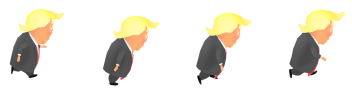
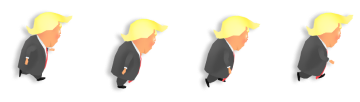
Updated background with Trump + Shadow

diff --git a/src/PlayScene.js b/src/PlayScene.js
@@ -7,8 +7,7 @@ class PlayScene extends Phaser.Scene {
 
   create() {
     const { height, width } = this.game.config;
-    // this.gameSpeed = 10;
-    this.gameSpeed = 7;
+    this.gameSpeed = 10;
     this.isGameRunning = false;
     this.respawnTime = 0;
     this.score = 0;
@@ -24,8 +23,8 @@ class PlayScene extends Phaser.Scene {
     this.ground = this.add
       .tileSprite(0, height, 88, 26, "ground")
       .setOrigin(0, 1);
-    this.dino = this.physics.add
-      .sprite(0, height, "trump_iddle")
+    this.trump = this.physics.add
+      .sprite(0, height, "trump_idle")
       .setCollideWorldBounds(true)
       .setGravityY(5000)
       .setBodySize(44, 90)
@@ -80,7 +79,7 @@ class PlayScene extends Phaser.Scene {
 
   initColliders() {
     this.physics.add.collider(
-      this.dino,
+      this.trump,
       this.obsticles,
       () => {
         this.highScoreText.x = this.scoreText.x - this.scoreText.width - 20;
@@ -99,7 +98,7 @@ class PlayScene extends Phaser.Scene {
         this.physics.pause();
         this.isGameRunning = false;
         this.anims.pauseAll();
-        this.dino.setTexture("dino-hurt");
+        this.trump.setTexture("dino-hurt");
         this.respawnTime = 0;
         this.gameSpeed = 10;
         this.gameOverScreen.setAlpha(1);
@@ -115,7 +114,7 @@ class PlayScene extends Phaser.Scene {
     const { width, height } = this.game.config;
     this.physics.add.overlap(
       this.startTrigger,
-      this.dino,
+      this.trump,
       () => {
         if (this.startTrigger.y === 10) {
           this.startTrigger.body.reset(0, height);
@@ -129,8 +128,8 @@ class PlayScene extends Phaser.Scene {
           loop: true,
           callbackScope: this,
           callback: () => {
-            this.dino.setVelocityX(80);
-            this.dino.play("dino-run", 1);
+            this.trump.setVelocityX(80);
+            this.trump.play("dino-run", 1);
 
             if (this.ground.width < width) {
               this.ground.width += 17 * 2;
@@ -139,7 +138,7 @@ class PlayScene extends Phaser.Scene {
             if (this.ground.width >= 1000) {
               this.ground.width = width;
               this.isGameRunning = true;
-              this.dino.setVelocityX(0);
+              this.trump.setVelocityX(0);
               this.scoreText.setAlpha(1);
               this.environment.setAlpha(1);
               startEvent.remove();
@@ -192,7 +191,7 @@ class PlayScene extends Phaser.Scene {
         }
 
         this.score++;
-        this.gameSpeed += 0.01;
+        this.gameSpeed += 0.02;
 
         if (this.score % 100 === 0) {
           this.reachSound.play();
@@ -218,9 +217,9 @@ class PlayScene extends Phaser.Scene {
 
   handleInputs() {
     this.restart.on("pointerdown", () => {
-      this.dino.setVelocityY(0);
-      this.dino.body.height = 92;
-      this.dino.body.offset.y = 0;
+      this.trump.setVelocityY(0);
+      this.trump.body.height = 92;
+      this.trump.body.offset.y = 0;
       this.physics.resume();
       this.obsticles.clear(true, true);
       this.isGameRunning = true;
@@ -228,60 +227,60 @@ class PlayScene extends Phaser.Scene {
       this.anims.resumeAll();
     });
     // Playing with AWSD
-    this.input.keyboard.on("keydown-A", () => {
-      this.dino.body.height = 92;
-      this.dino.body.offset.y = 0;
-      this.dino.setVelocityY(-1600);
-      this.dino.setTexture("dino", 0);
-    });
-    this.input.keyboard.on("keydown-W", () => {
-      this.dino.body.height = 0;
-      this.dino.body.offset.x = 30;
-    });
-    this.input.keyboard.on("keydown-S", () => {
-      this.dino.body.height = 0;
-      this.dino.body.offset.x = 30;
-    });
-    this.input.keyboard.on("keydown-D", () => {
-      this.dino.body.height = 0;
-      this.dino.body.offset.x = 30;
-    });
+    // this.input.keyboard.on("keydown-A", () => {
+    //   this.trump.body.height = 92;
+    //   this.trump.body.offset.y = 0;
+    //   this.trump.setVelocityY(-1600);
+    //   this.trump.setTexture("dino", 0);
+    // });
+    // this.input.keyboard.on("keydown-W", () => {
+    //   this.trump.body.height = 0;
+    //   this.trump.body.offset.x = 30;
+    // });
+    // this.input.keyboard.on("keydown-S", () => {
+    //   this.trump.body.height = 0;
+    //   this.trump.body.offset.x = 30;
+    // });
+    // this.input.keyboard.on("keydown-D", () => {
+    //   this.trump.body.height = 0;
+    //   this.trump.body.offset.x = 30;
+    // });
     // END AWSD
 
     this.input.keyboard.on("keydown_SPACE", () => {
-      if (!this.dino.body.onFloor() || this.dino.body.velocity.x > 0) {
+      if (!this.trump.body.onFloor() || this.trump.body.velocity.x > 0) {
         return;
       }
 
       this.jumpSound.play();
-      this.dino.body.height = 92;
-      this.dino.body.offset.y = 0;
-      this.dino.setVelocityY(-1600);
-      this.dino.setTexture("dino", 0);
+      this.trump.body.height = 92;
+      this.trump.body.offset.y = 0;
+      this.trump.setVelocityY(-1600);
+      this.trump.setTexture("dino", 0);
     });
 
-    this.input.keyboard.on("keydown_DOWN", () => {
-      if (!this.dino.body.onFloor() || !this.isGameRunning) {
-        return;
-      }
+    // this.input.keyboard.on("keydown_DOWN", () => {
+    //   if (!this.trump.body.onFloor() || !this.isGameRunning) {
+    //     return;
+    //   }
 
-      this.dino.body.height = 58;
-      this.dino.body.offset.y = 34;
-    });
+    //   this.trump.body.height = 58;
+    //   this.trump.body.offset.y = 34;
+    // });
 
     this.input.keyboard.on("keyup_DOWN", () => {
       if (this.score !== 0 && !this.isGameRunning) {
         return;
       }
 
-      this.dino.body.height = 92;
-      this.dino.body.offset.y = 0;
+      this.trump.body.height = 92;
+      this.trump.body.offset.y = 0;
     });
   }
 
   placeObsticle() {
     const obsticleNum = Math.floor(Math.random() * 7) + 1;
-    const distance = Phaser.Math.Between(600, 900);
+    const distance = Phaser.Math.Between(600, 900); // Distance between obsticles
 
     let obsticle;
     if (obsticleNum > 6) {
@@ -310,6 +309,7 @@ class PlayScene extends Phaser.Scene {
     obsticle.setImmovable();
   }
 
+  // Updates
   update(time, delta) {
     if (!this.isGameRunning) {
       return;
@@ -320,6 +320,7 @@ class PlayScene extends Phaser.Scene {
     Phaser.Actions.IncX(this.environment.getChildren(), -0.5);
 
     this.respawnTime += delta * this.gameSpeed * 0.08;
+    console.log(this.gameSpeed);
     if (this.respawnTime >= 1500) {
       this.placeObsticle();
       this.respawnTime = 0;
@@ -337,13 +338,13 @@ class PlayScene extends Phaser.Scene {
       }
     });
 
-    if (this.dino.body.deltaAbsY() > 0) {
-      this.dino.anims.stop();
-      this.dino.setTexture("dino", 0);
+    if (this.trump.body.deltaAbsY() > 0) {
+      this.trump.anims.stop();
+      this.trump.setTexture("dino", 0);
     } else {
-      this.dino.body.height <= 58
-        ? this.dino.play("dino-down-anim", true)
-        : this.dino.play("dino-run", true);
+      this.trump.body.height <= 58
+        ? this.trump.play("dino-down-anim", true)
+        : this.trump.play("dino-run", true);
     }
   }
 }

diff --git a/src/PreloadScene.js b/src/PreloadScene.js
@@ -16,7 +16,7 @@ class PreloadScene extends Phaser.Scene {
     this.load.image("flag", "assets/trump/usa_flag.png");
     this.load.image("cloud", "assets/cloud.png");
     this.load.image("sun", "assets/trump/donald-sun.png");
-    this.load.image("trump_iddle", "assets/trump/trump_iddle.png");
+    this.load.image("trump_idle", "assets/trump/trump_idle.png");
 
     this.load.spritesheet("star", "assets/stars.png", {
       frameWidth: 9,
@@ -27,11 +27,6 @@ class PreloadScene extends Phaser.Scene {
       frameWidth: 20,
       frameHeight: 40,
     });
-
-    // this.load.spritesheet("dino", "assets/figma/dino-run-ds.png", {
-    //   frameWidth: 88,
-    //   frameHeight: 94,
-    // });
 
     this.load.spritesheet("dino", "assets/trump/trump_run.png", {
       frameWidth: 88,
@@ -50,9 +45,9 @@ class PreloadScene extends Phaser.Scene {
 
     this.load.image("obsticle-1", "assets/trump/mexican.png");
     this.load.image("obsticle-2", "assets/trump/twitter.png");
-    this.load.image("obsticle-3", "assets/cactuses_small_3.png");
+    this.load.image("obsticle-3", "assets/trump/corona.png");
     this.load.image("obsticle-4", "assets/trump/mexican_big.png");
-    this.load.image("obsticle-5", "assets/cactuses_big_2.png");
+    this.load.image("obsticle-5", "assets/trump/nuclear.png");
     this.load.image("obsticle-6", "assets/trump/money.png");
   }
 

diff --git a/index.html b/index.html
@@ -14,7 +14,11 @@
 
       canvas {
         border: 4px solid black;
-        background: rgb(131, 58, 180);
+        background-image: url(/assets/trump/vithus.png);
+        background-size: contain;
+        background-position: center;
+
+        /* background: rgb(131, 58, 180);
         background: linear-gradient(
           185deg,
           rgba(131, 58, 180, 1) 0%,
@@ -23,7 +27,7 @@
           rgba(29, 175, 253, 0.80015756302521) 0%,
           rgba(47, 181, 253, 1) 1%,
           rgba(251, 251, 251, 1) 100%
-        );
+        ); */
       }
     </style>
   </head>

diff --git a/src/index.js b/src/index.js
@@ -13,7 +13,7 @@ const config = {
   physics: {
     default: "arcade",
     arcade: {
-      debug: false,
+      debug: true,
     },
   },
   scene: [PreloadScene, PlayScene],
